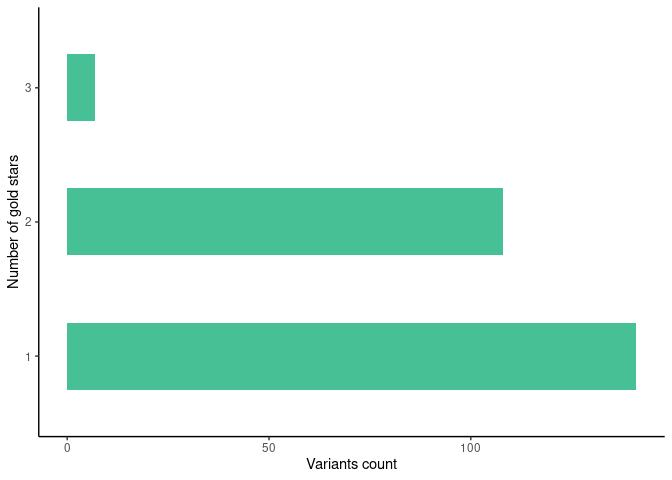
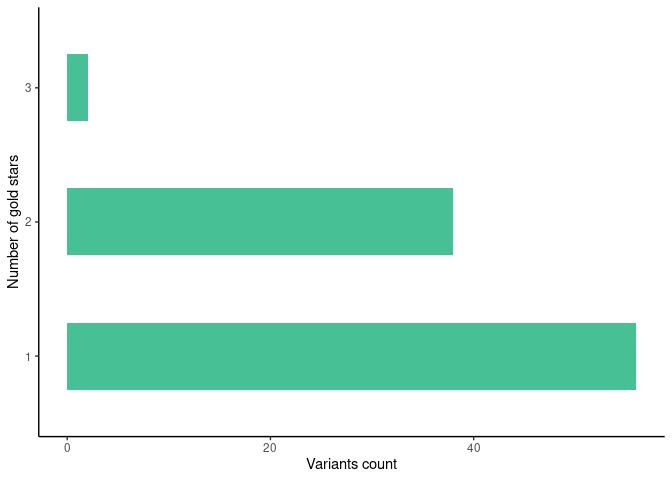
gnomad 3.1.1 filter

diff --git a/variants_af/variants_af.md b/variants_af/variants_af.md
@@ -28,10 +28,10 @@ Variants in disease causing genes Results for 943 unrelated individuals
 
 | stars |   n |
 |------:|----:|
-|     1 | 141 |
-|     2 | 108 |
-|     3 |   9 |
-|    NA |  68 |
+|     1 |  56 |
+|     2 |  38 |
+|     3 |   3 |
+|    NA |  22 |
 
 variants with Clinvar stars
 
